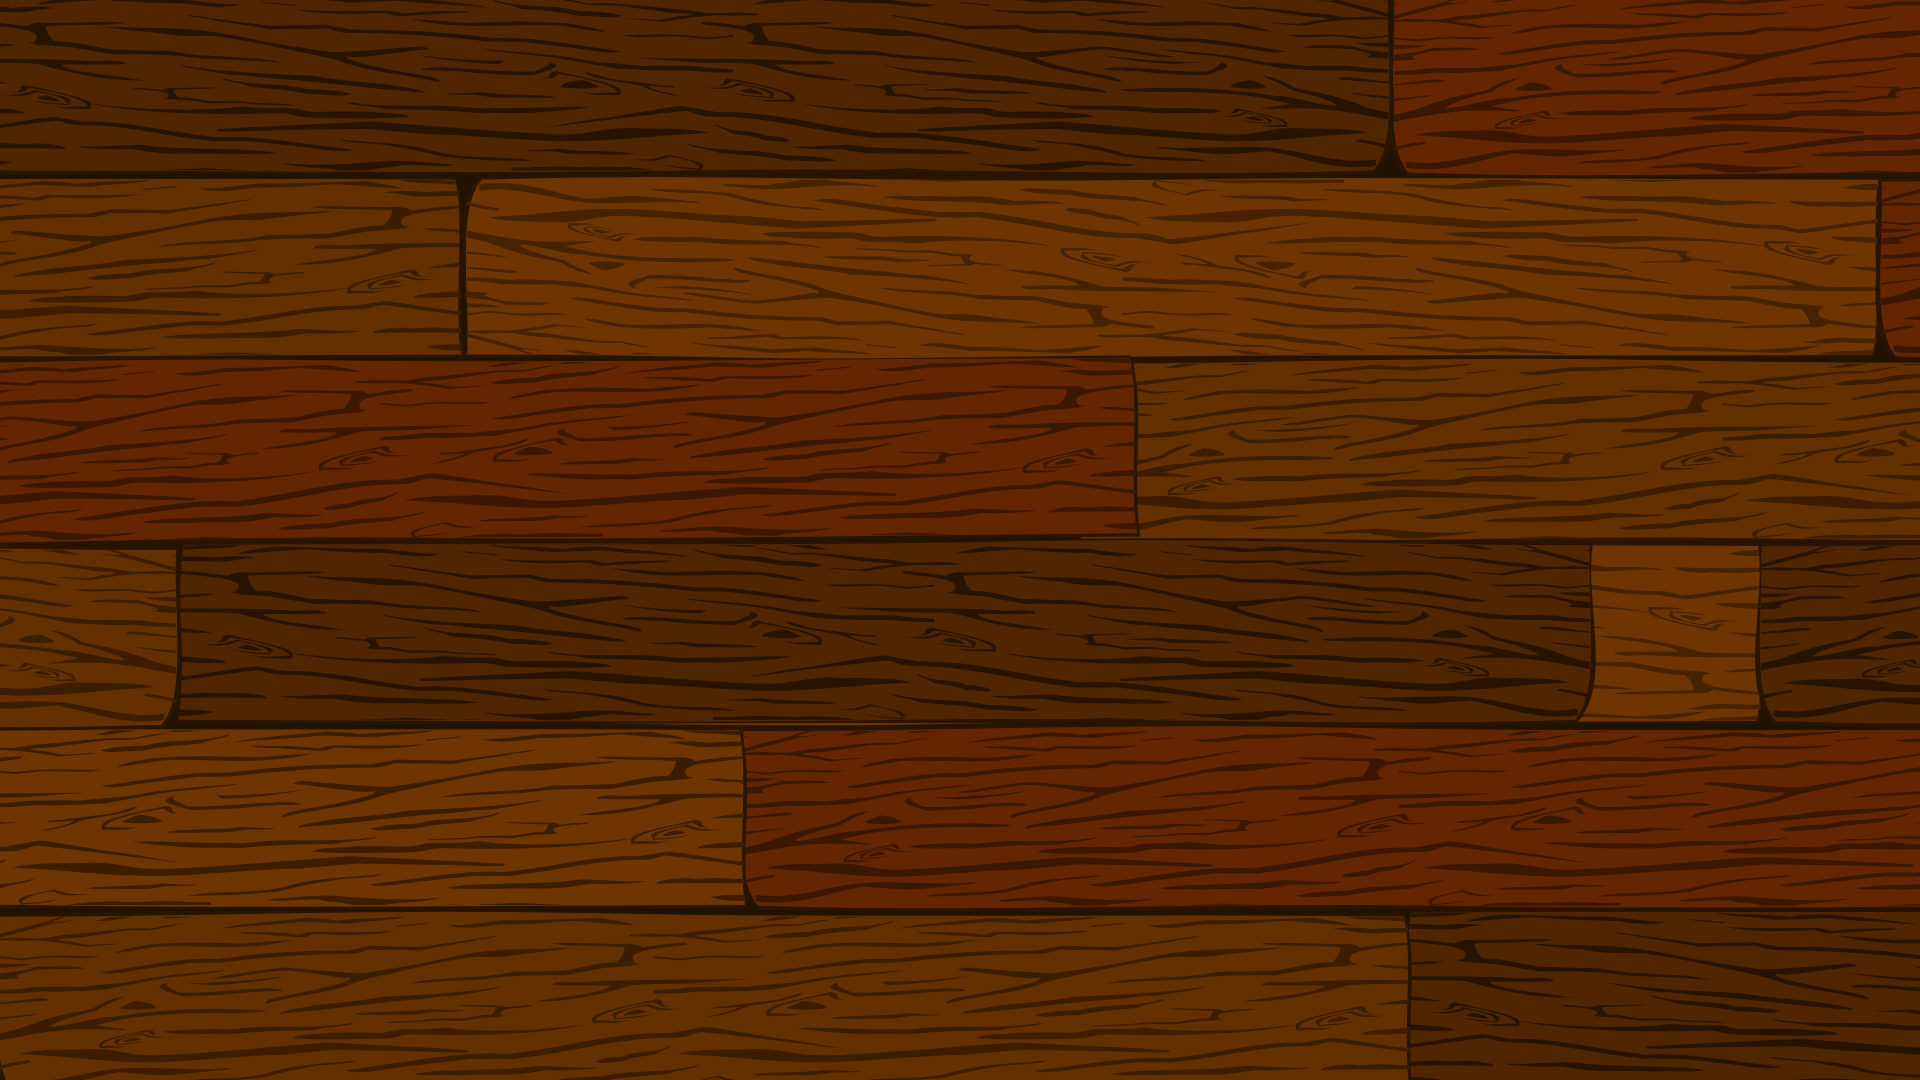
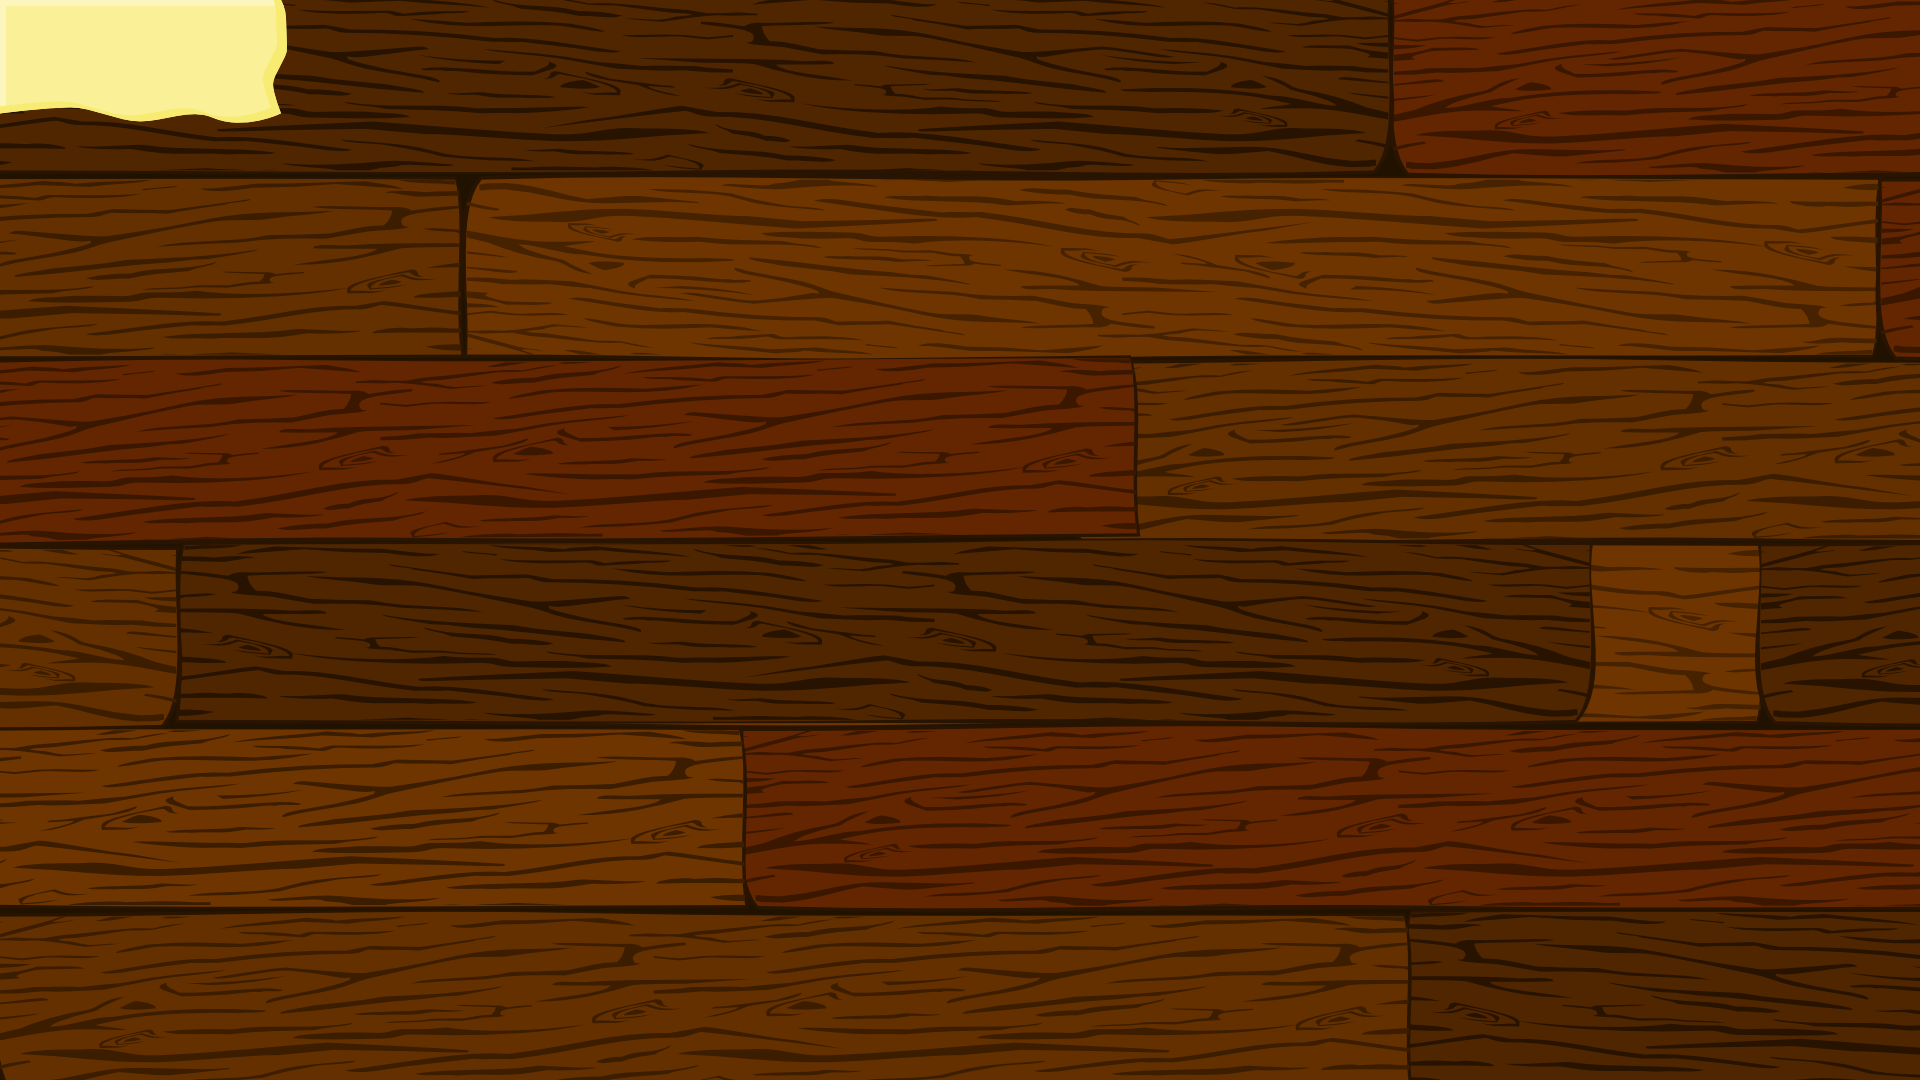
Maus und Useranzeige

Changed region(s): [[0.0, 0.0, 0.1562, 0.1222]]

diff --git a/StoryBear/src/com/opticalcobra/storybear/menu/Menu.java b/StoryBear/src/com/opticalcobra/storybear/menu/Menu.java
@@ -131,12 +131,16 @@ public class Menu extends JFrame {
 	}
 	
 	private void initializeUser() {
-		//TODO: add graphic
+		JLabel text = new JLabel();
+		text.setText("Du spielst als:");
+		text.setBounds((int)(17/Ressources.SCALE), (int)(17/Ressources.SCALE), (int)(250/Ressources.SCALE), (int)(60/Ressources.SCALE));
+		text.setFont(FontCache.getInstance().getFont("Fontin_SC", 25f));
+		getContentPane().add(text);
 		currentUser = new JLabel();
-		currentUser.setBounds((int)(0/Ressources.SCALE), (int)(0/Ressources.SCALE), (int)(100/Ressources.SCALE), (int)(100/Ressources.SCALE));
+		currentUser.setBounds((int)(17/Ressources.SCALE), (int)(45/Ressources.SCALE), (int)(250/Ressources.SCALE), (int)(60/Ressources.SCALE));
 		currentUser.setFont(Menu.fontText[0]);
 		currentUser.setText(User.isCurrentUserSet() ? User.getCurrentUser().getName() : "");
-		currentUser.setForeground(Color.red);
+		currentUser.setFont(FontCache.getInstance().getFont("Fontin_SC", 40f));
 		getContentPane().add(currentUser);
 	}
 	

diff --git a/StoryBear/src/com/opticalcobra/storybear/menu/BookBox.java b/StoryBear/src/com/opticalcobra/storybear/menu/BookBox.java
@@ -132,12 +132,12 @@ public class BookBox extends JLayeredPane implements ListSelectionListener {
 	}
 	
 	public void hoverIn() {
-		setCursor(Cursor.getPredefinedCursor(Cursor.HAND_CURSOR));
+		setCursor(Ressources.CURSORCLICKABLE);
 		setLocation(((available) ? postionAvailable+(int)(15/Ressources.SCALE) : postionNormal-(int)(15/Ressources.SCALE)),0);
 	}
 	
 	public void hoverOut() {
-		setCursor(Cursor.getDefaultCursor());
+		setCursor(Ressources.CURSORNORMAL);
 		setLocation(((available) ? postionAvailable : postionNormal),0);
 	}
 
